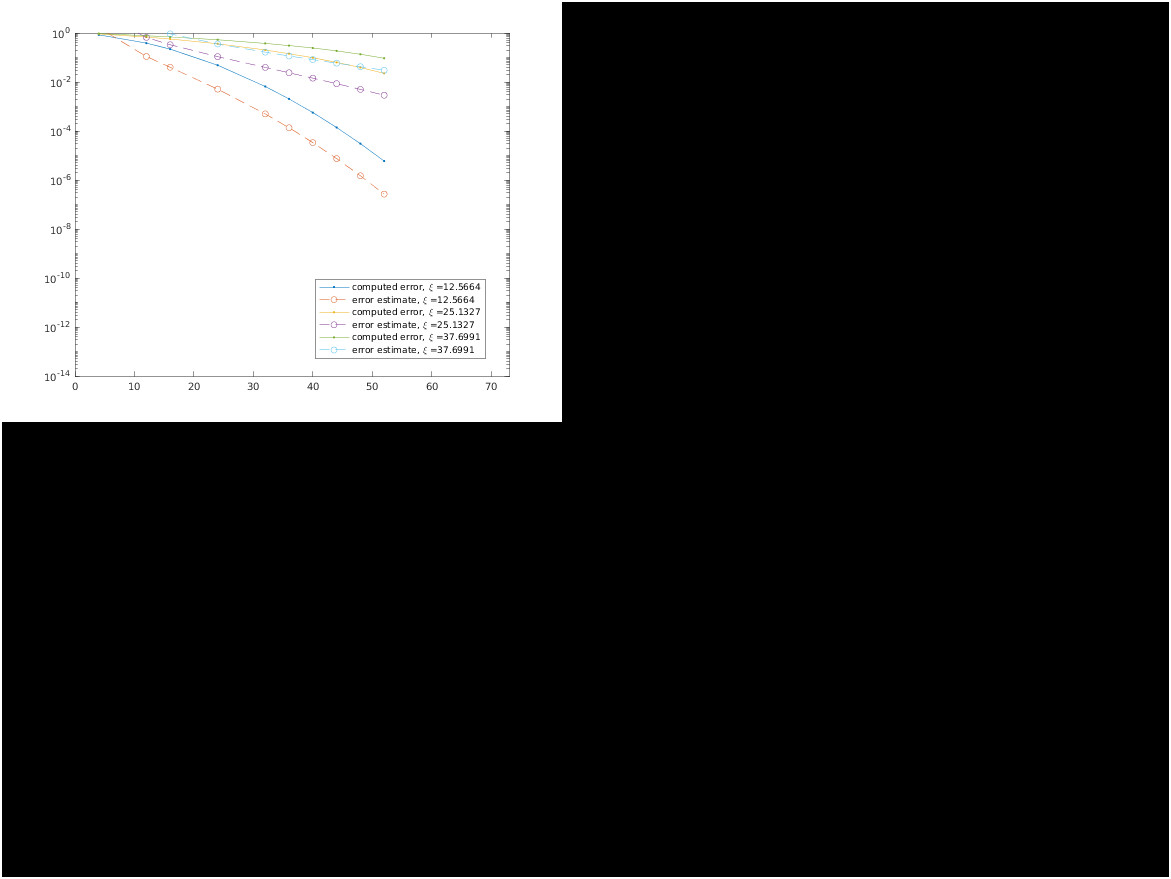
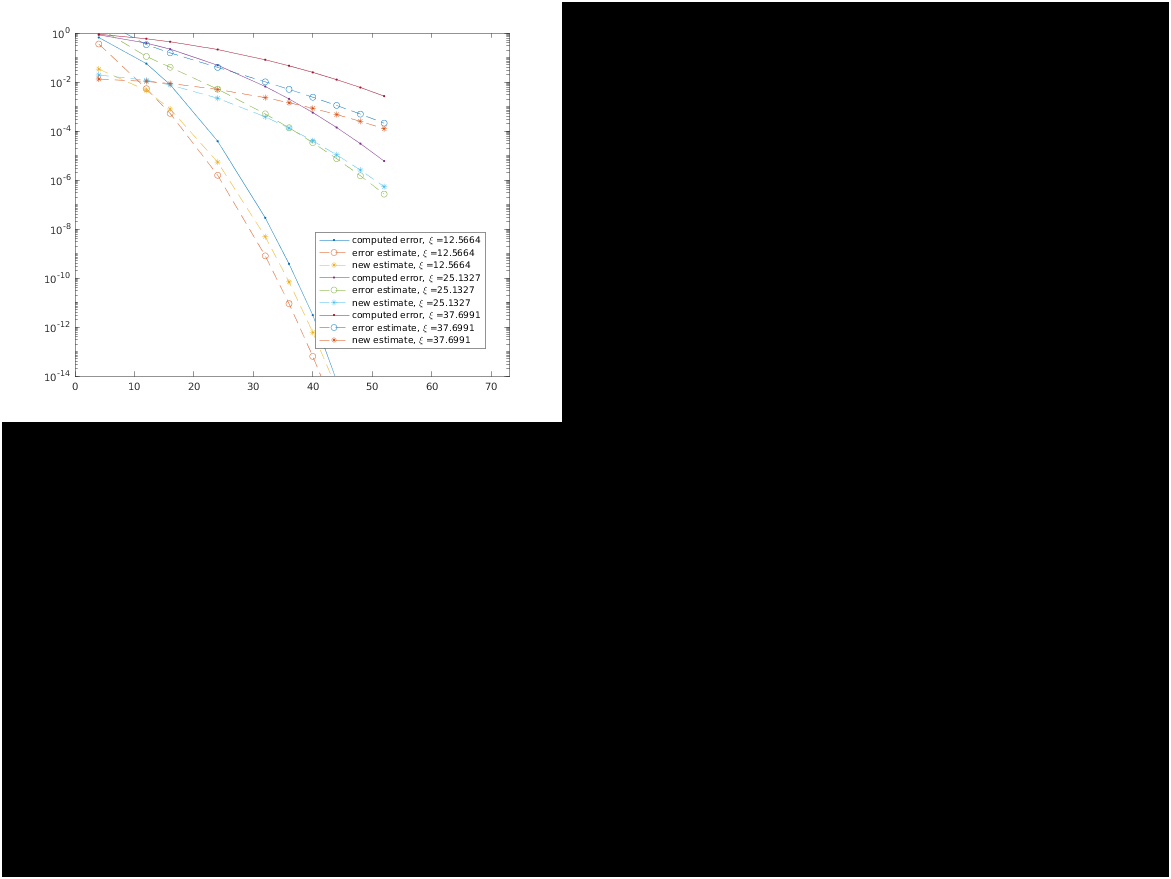
imgs

diff --git a/SE_Stokes_run/SE3P_Stokes/param_select.m b/SE_Stokes_run/SE3P_Stokes/param_select.m
@@ -8,7 +8,7 @@ N = 10; % number of source particles
 
 
 %% Parameter selection
-L = 4; % box side length
+L = 2; % box side length
 box = [L L L]; % periodic box
 opt.box = box;
 
@@ -106,10 +106,10 @@ for xi = xx
     semilogy(MM./2,err,'.-')
     hold on
     semilogy(MM./2,ee,'--o')
-    %semilogy(MM./2,eee,'--*')
+    semilogy(MM./2,eee,'--*')
     str = [str,strcat('computed error, \xi =', num2str(xi))];
     str = [str, strcat('error estimate, \xi =', num2str(xi))];
-    %str = [str, strcat('new estimate, \xi =', num2str(xi))];
+    str = [str, strcat('new estimate, \xi =', num2str(xi))];
 end
 ylim([10^-14,1])
 xlim([0,73])
